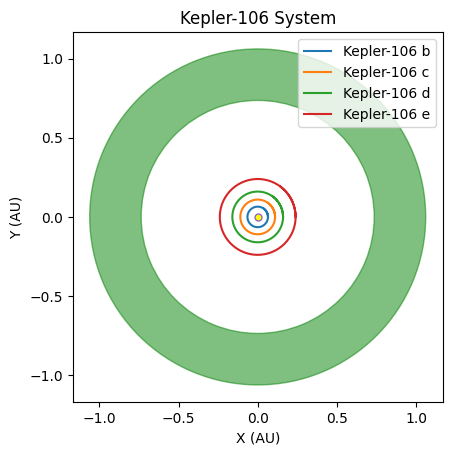
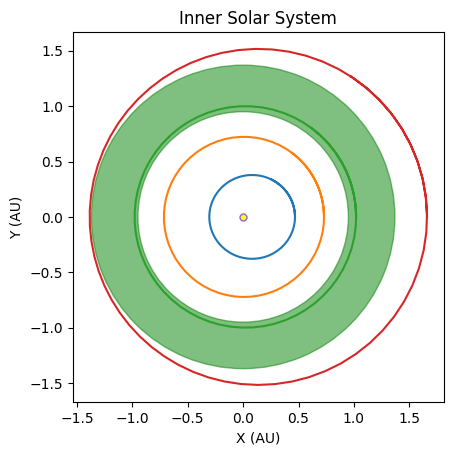
Preview images

diff --git a/Website/Pages/task-menu.html b/Website/Pages/task-menu.html
@@ -175,7 +175,7 @@
     <div class="collapse show" id="extensionTasks">
       <div class="container d-flex flex-wrap justify-content-center" style="max-width: 80rem;">
       <div class="card m-3" style="width: 18rem; height: 25rem;">
-          <img src="../Graphics/task2preview.png" class="card-img-top" alt="...">
+          <img src="../Graphics/BinaryPreview.png" class="card-img-top" alt="...">
           <hr class="m-0">
           <div class="card-body">
               <h5 class="card-title"> 
@@ -185,7 +185,7 @@
           </div>
       </div>
           <div class="card m-3" style="width: 18rem; height: 25rem;">
-            <img src="../Graphics/task2preview.png" class="card-img-top" alt="...">
+            <img src="../Graphics/GoldilocksPreview.png" class="card-img-top" alt="...">
             <hr class="m-0">
             <div class="card-body">
                 <h5 class="card-title"> 
@@ -195,13 +195,13 @@
             </div>
         </div>
             <div class="card m-3" style="width: 18rem; height: 25rem;">
-                <img src="../Graphics/task1preview.png" class="card-img-top" alt="...">
+                <img src="../Graphics/LagrangePreview.png" class="card-img-top" alt="...">
                 <hr class="m-0">
                 <div class="card-body">
                     <h5 class="card-title"> 
                         <a href="Lagrange-points.html" class="stretched-link">Lagrange Points</a> 
                     </h5>
-                    <p class="card-text">Explore fully rendered 3D systems.</p>
+                    <p class="card-text">Plot the orbit of a test mass around the Lagrange Points.</p>
                 </div>
             </div>
         </div>

diff --git a/Task Files/Binary systems/Binary star system no animation.py b/Task Files/Binary systems/Binary star system no animation.py
@@ -22,7 +22,7 @@ theta0 = math.pi/4
 M1 = 3
 M2 = 2
 #Initial vy velocity multiplier from mutually circular of stars
-k = 1.5
+k = 1
 #determines which star the planet orbits
 star_orbit = 1
 
@@ -140,10 +140,4 @@ ax.set_xlim(-1.1* a, 1.1* a)
 ax.set_ylim(-1.1* a, 1.1* a)
 plt.legend(loc="upper right")
 plt.title("Binary Star System Simulation")
-plt.savefig("Binarypreview3.png", bbox_inches = "tight")
 plt.show()
-
-    
-              
-    
-    

diff --git a/Task Files/Goldilocks Zone/Goldilocks Zone.py b/Task Files/Goldilocks Zone/Goldilocks Zone.py
@@ -43,4 +43,4 @@ def plot_orbit(system_name):
     plt.savefig("Goldilockspreview3.png", bbox_inches = "tight")
     plt.show()
 
-plot_orbit("Kepler-106")
+plot_orbit("Inner Solar")
